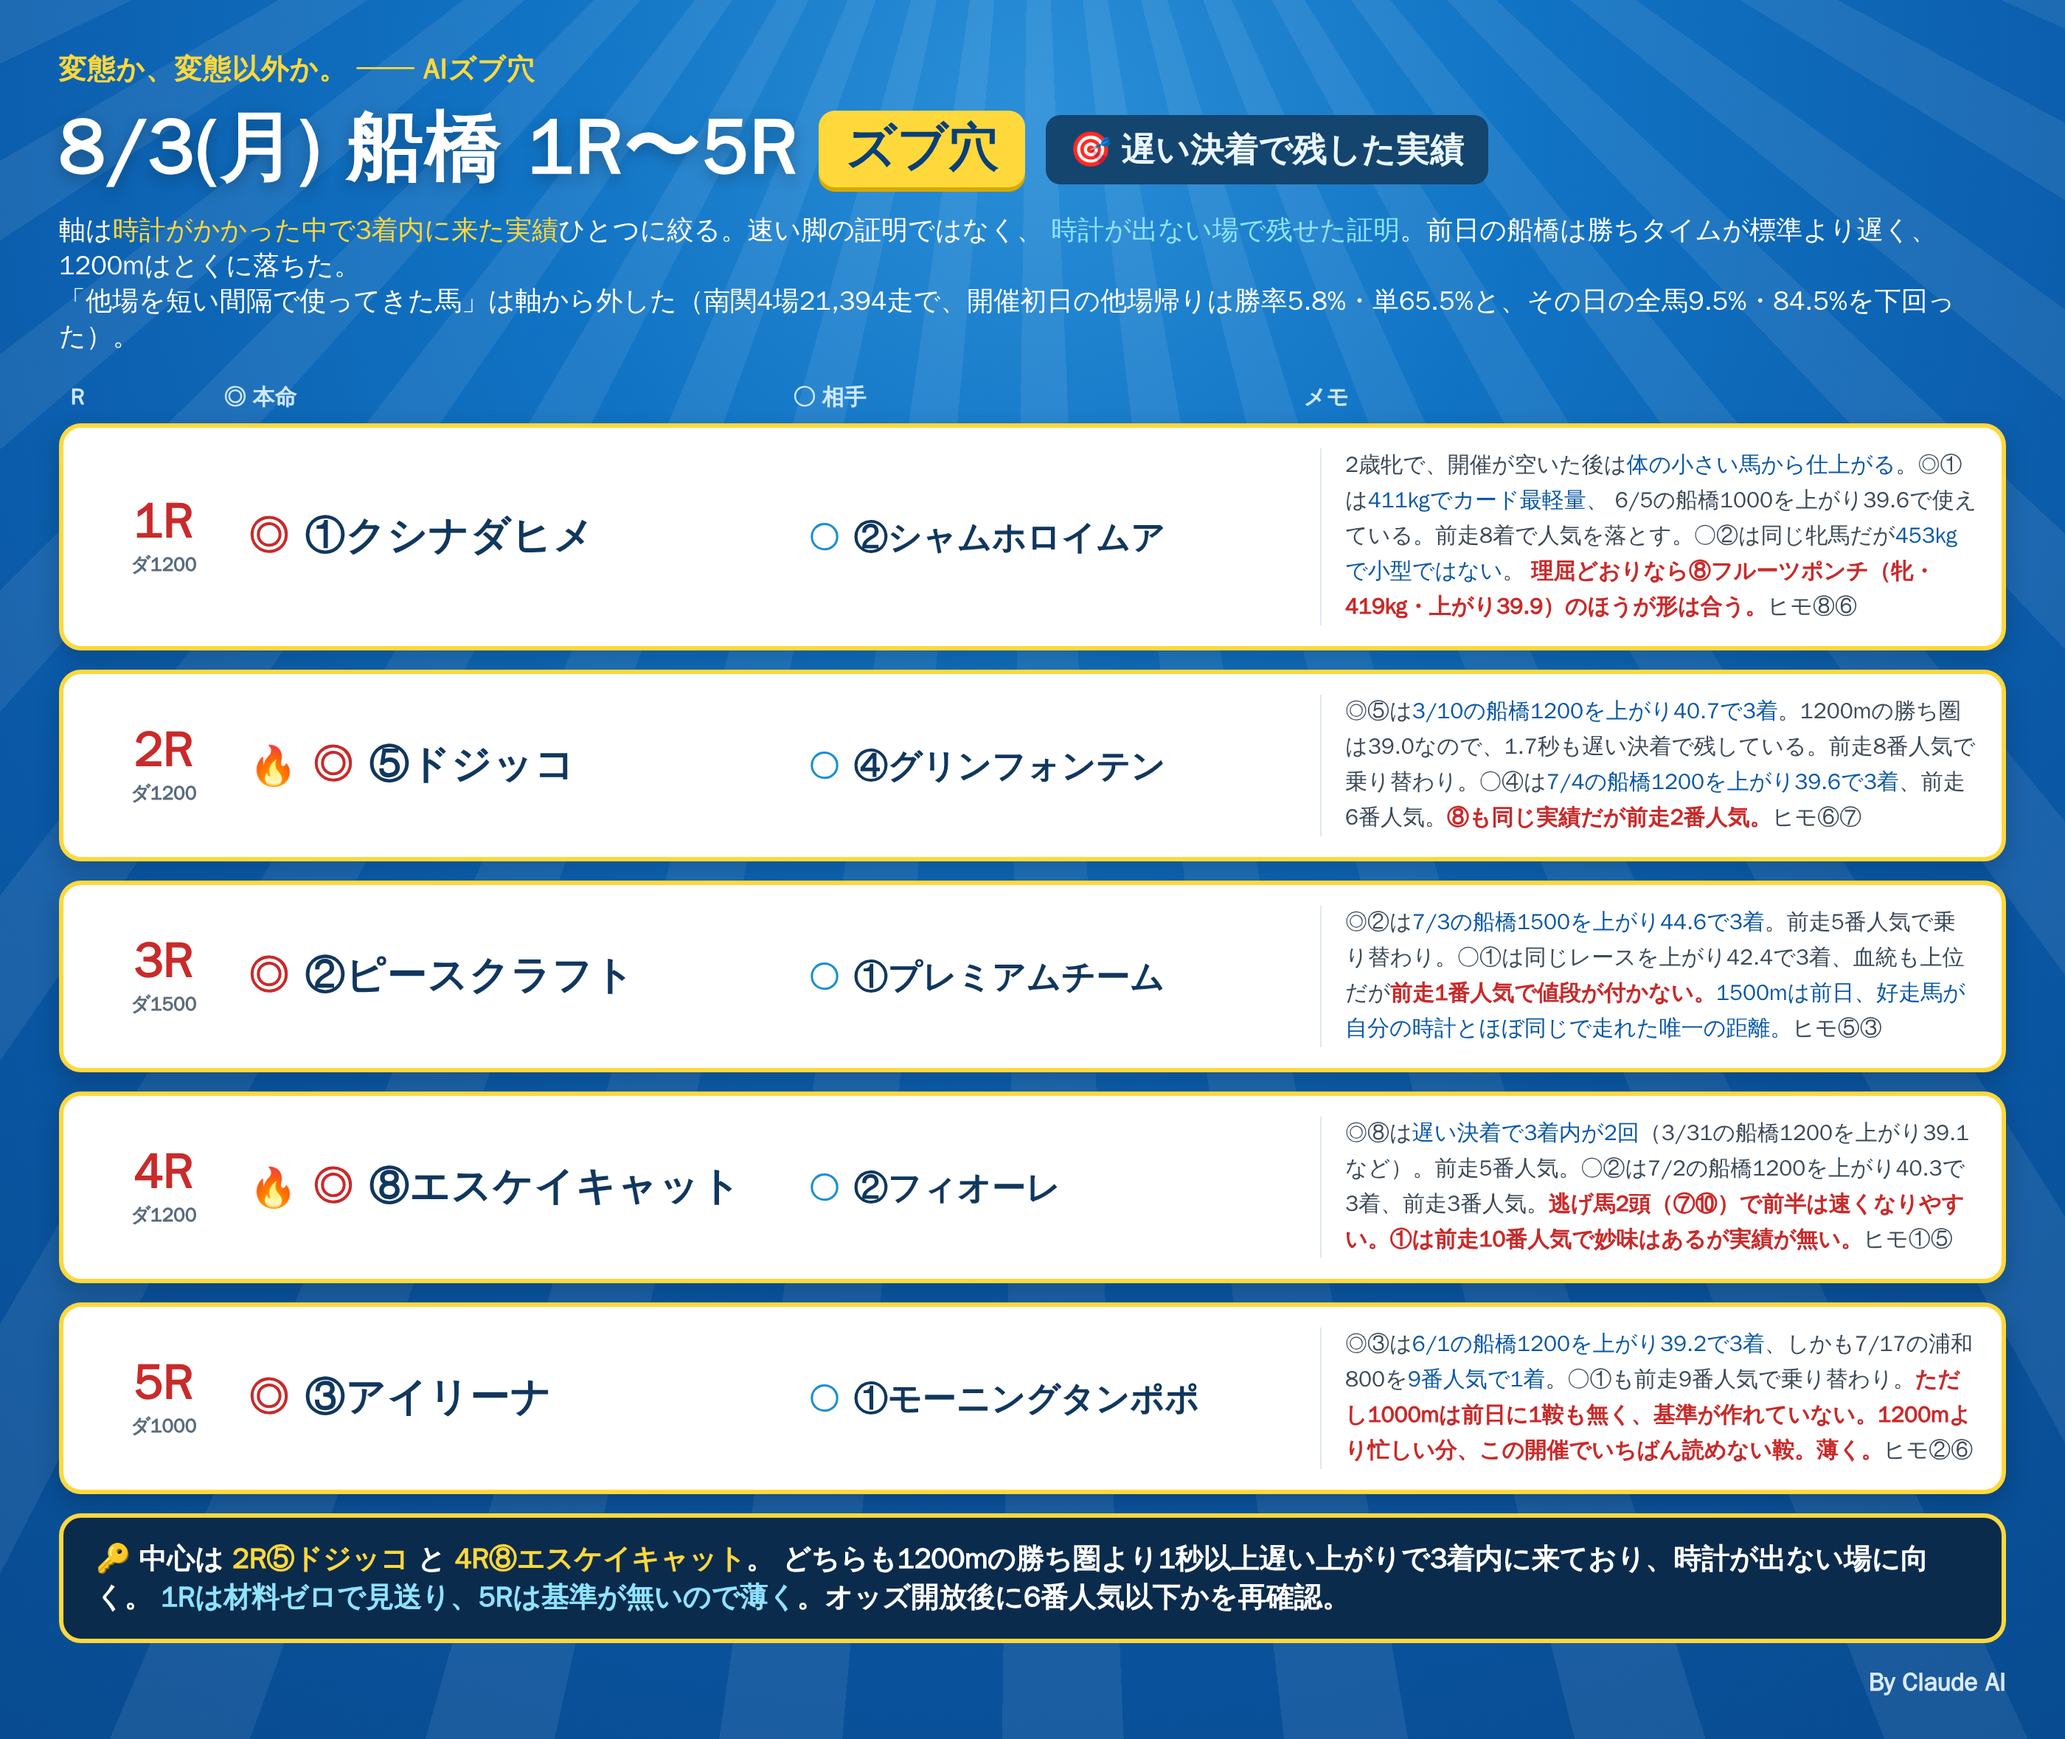
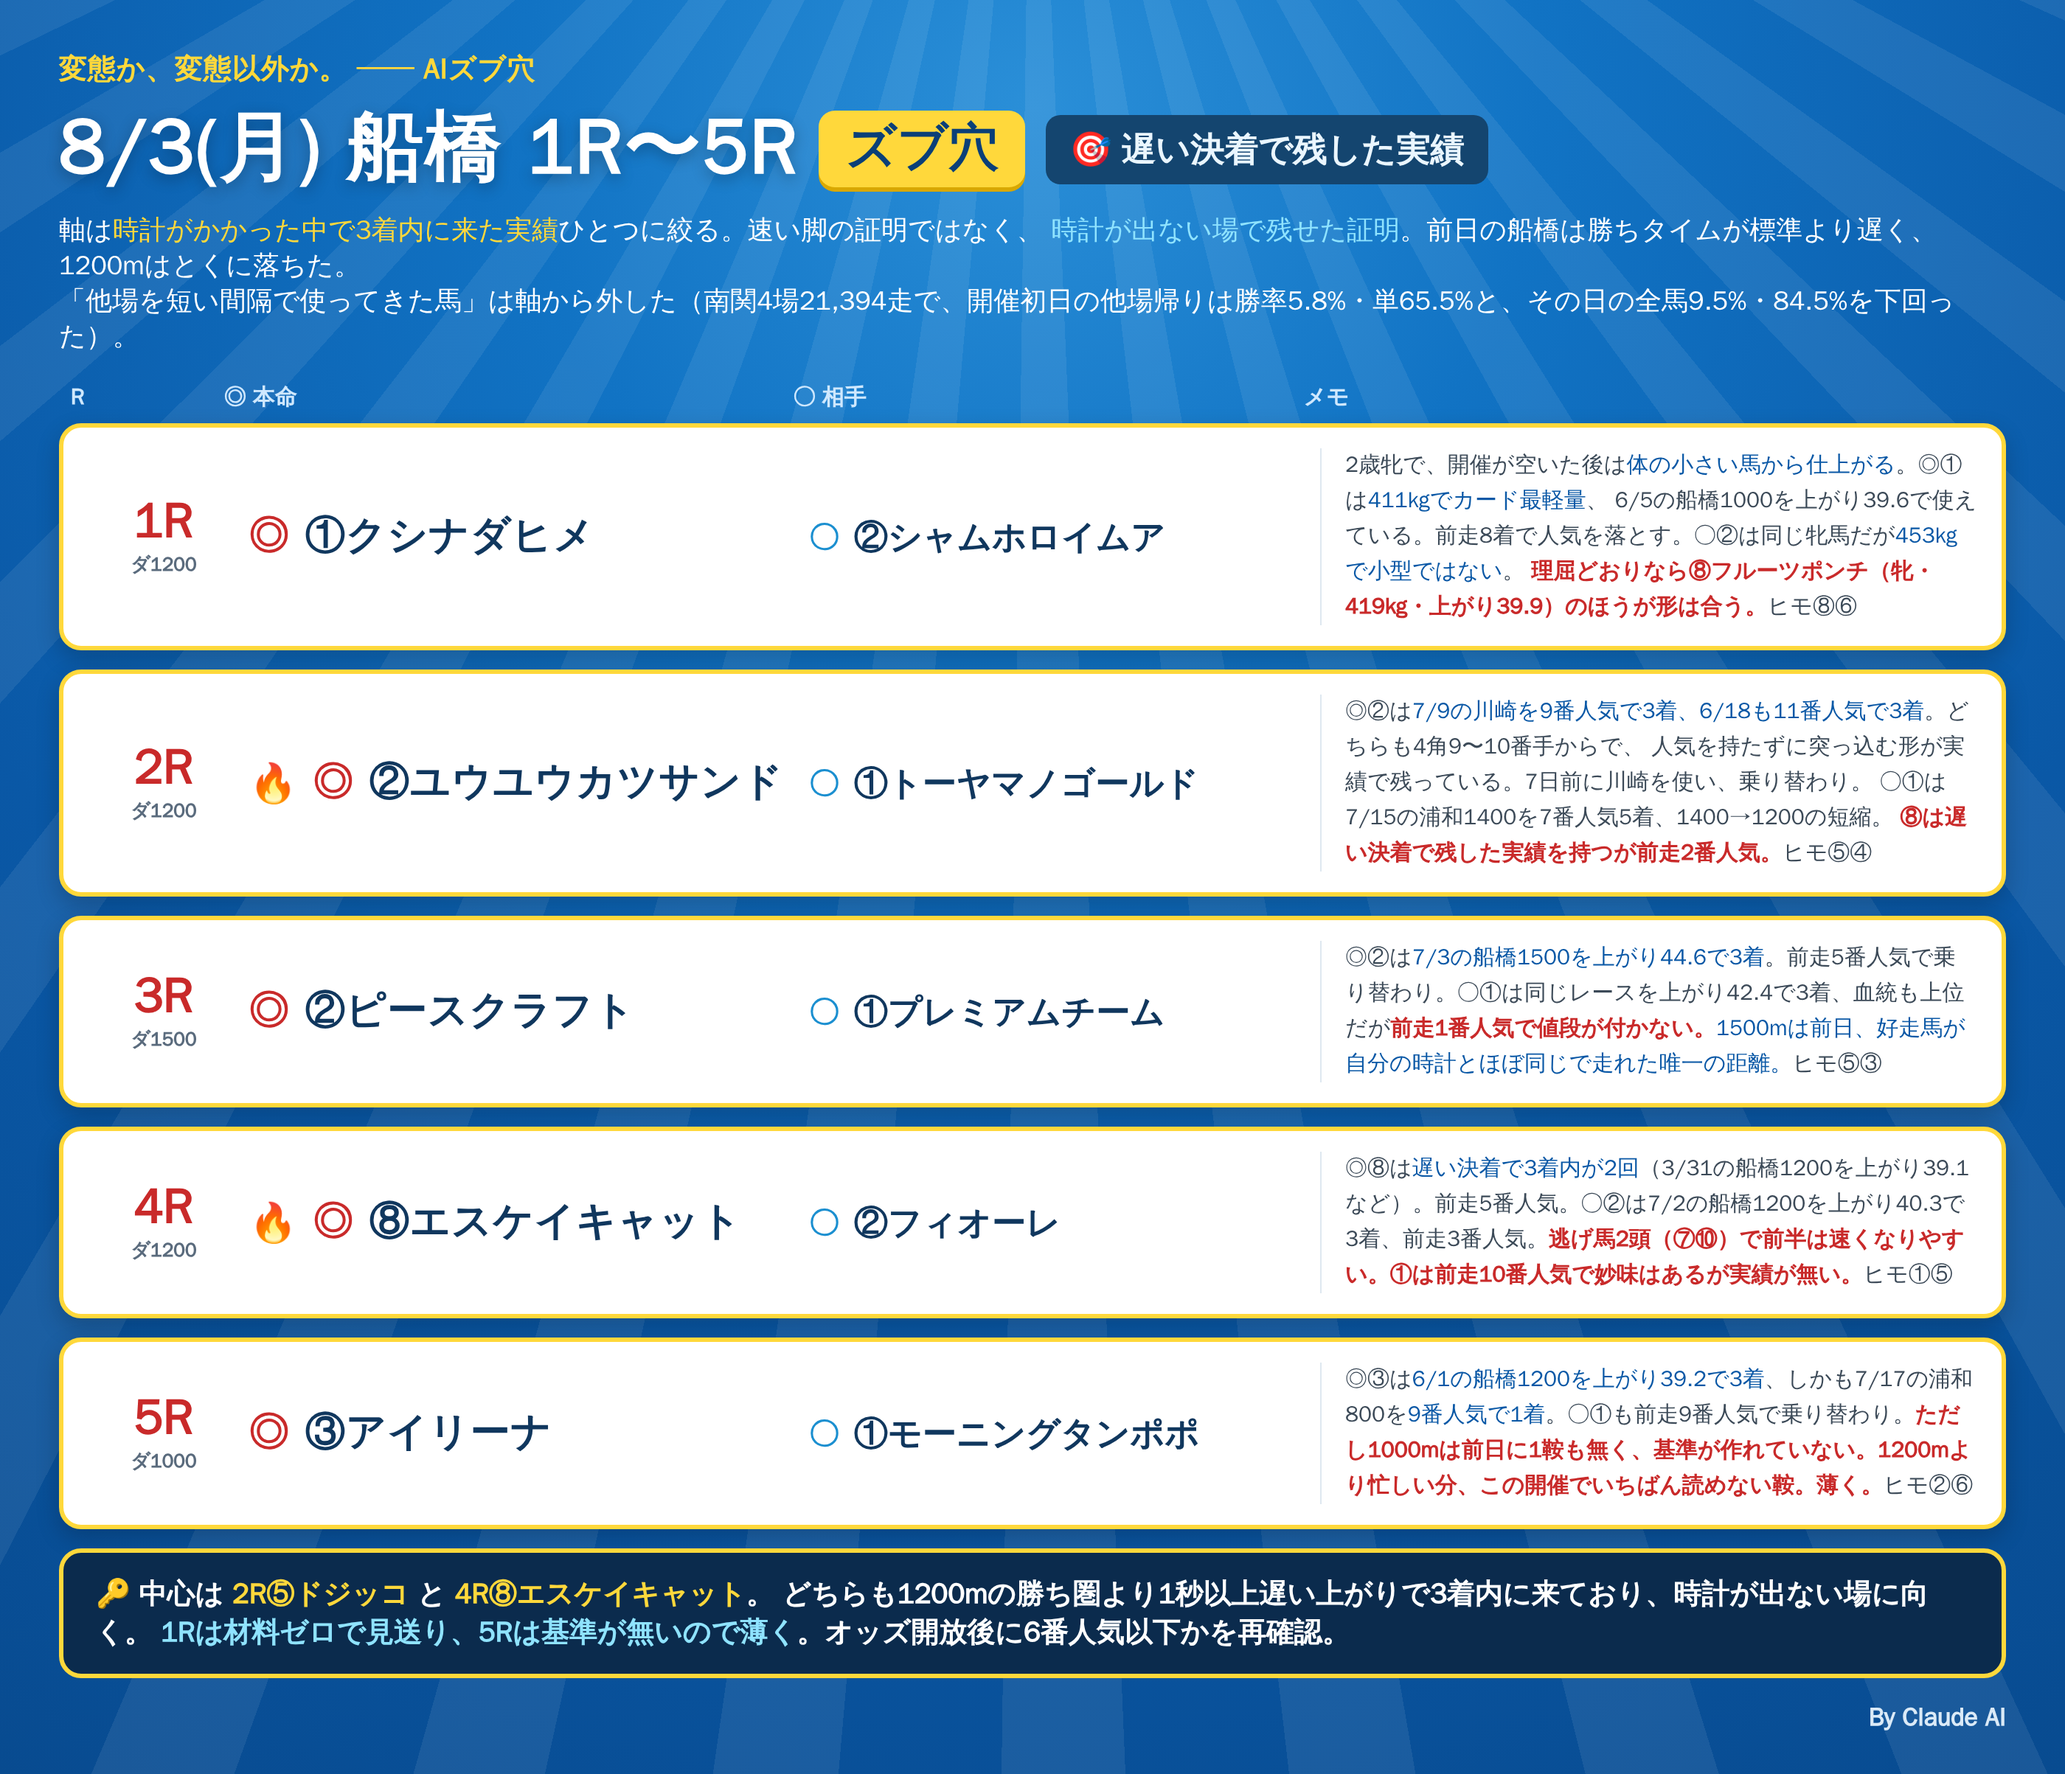
notes: swap 2R to the double-digit-odds closer

diff --git a/notes/live/2026-08-03/funabashi_1_5_final.html b/notes/live/2026-08-03/funabashi_1_5_final.html
@@ -64,10 +64,14 @@
 
   <div class="row">
     <div class="rN"><div class="n">2R</div><div class="d">ダ1200</div></div>
-    <div class="hm"><span class="fire">🔥</span><span class="mk">◎</span><span class="nm">⑤ドジッコ</span></div>
-    <div class="at"><span class="mk2">○</span><span class="nm2">④グリンフォンテン</span></div>
-    <div class="memo">◎⑤は<b>3/10の船橋1200を上がり40.7で3着</b>。1200mの勝ち圏は39.0なので、1.7秒も遅い決着で残している。前走8番人気で乗り替わり。○④は<b>7/4の船橋1200を上がり39.6で3着</b>、前走6番人気。<span class='r'>⑧も同じ実績だが前走2番人気。</span>ヒモ⑥⑦</div>
+    <div class="hm"><span class="fire">🔥</span><span class="mk">◎</span><span class="nm">②ユウユウカツサンド</span></div>
+    <div class="at"><span class="mk2">○</span><span class="nm2">①トーヤマノゴールド</span></div>
+    <div class="memo">◎②は<b>7/9の川崎を9番人気で3着、6/18も11番人気で3着</b>。どちらも4角9〜10番手からで、
+    人気を持たずに突っ込む形が実績で残っている。7日前に川崎を使い、乗り替わり。
+    ○①は7/15の浦和1400を7番人気5着、1400→1200の短縮。
+    <span class='r'>⑧は遅い決着で残した実績を持つが前走2番人気。</span>ヒモ⑤④</div>
   </div>
+
   <div class="row">
     <div class="rN"><div class="n">3R</div><div class="d">ダ1500</div></div>
     <div class="hm"><span class="mk">◎</span><span class="nm">②ピースクラフト</span></div>
